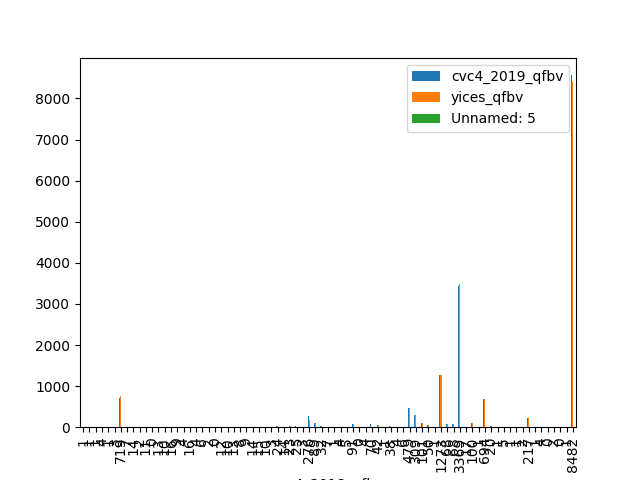
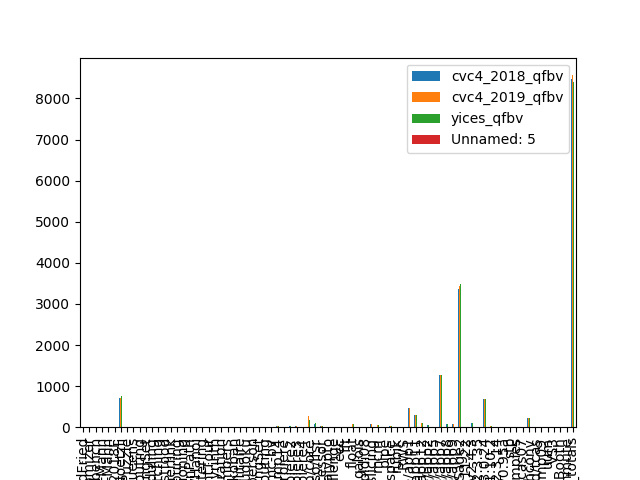
.

Changed region(s): [[0.125, 0.9062, 0.9062, 1.0], [0.625, 0.1875, 0.875, 0.3125]]

diff --git a/PI-Aug-2019-stats/scripts/gen_plots.py b/PI-Aug-2019-stats/scripts/gen_plots.py
@@ -17,8 +17,9 @@ for csv_file in os.listdir(cluster_csv_dir):
     data = ps.read_csv(cluster_csv_dir + "/" + csv_file)
     data = data.applymap(to_int)
     #data.sort_values(data.columns[2], inplace=True)
-    print(data)
-    p = data.plot(kind='bar', x=data.columns[1])
+    #print(data)
+    print(data.columns)
+    p = data.plot(kind='bar', x="DIRECTORY")
     f = p.get_figure()
     f.savefig('/home/yoniz/git/hermes/PI-Aug-2019-stats/plots/' + csv_file + '.png')
 
